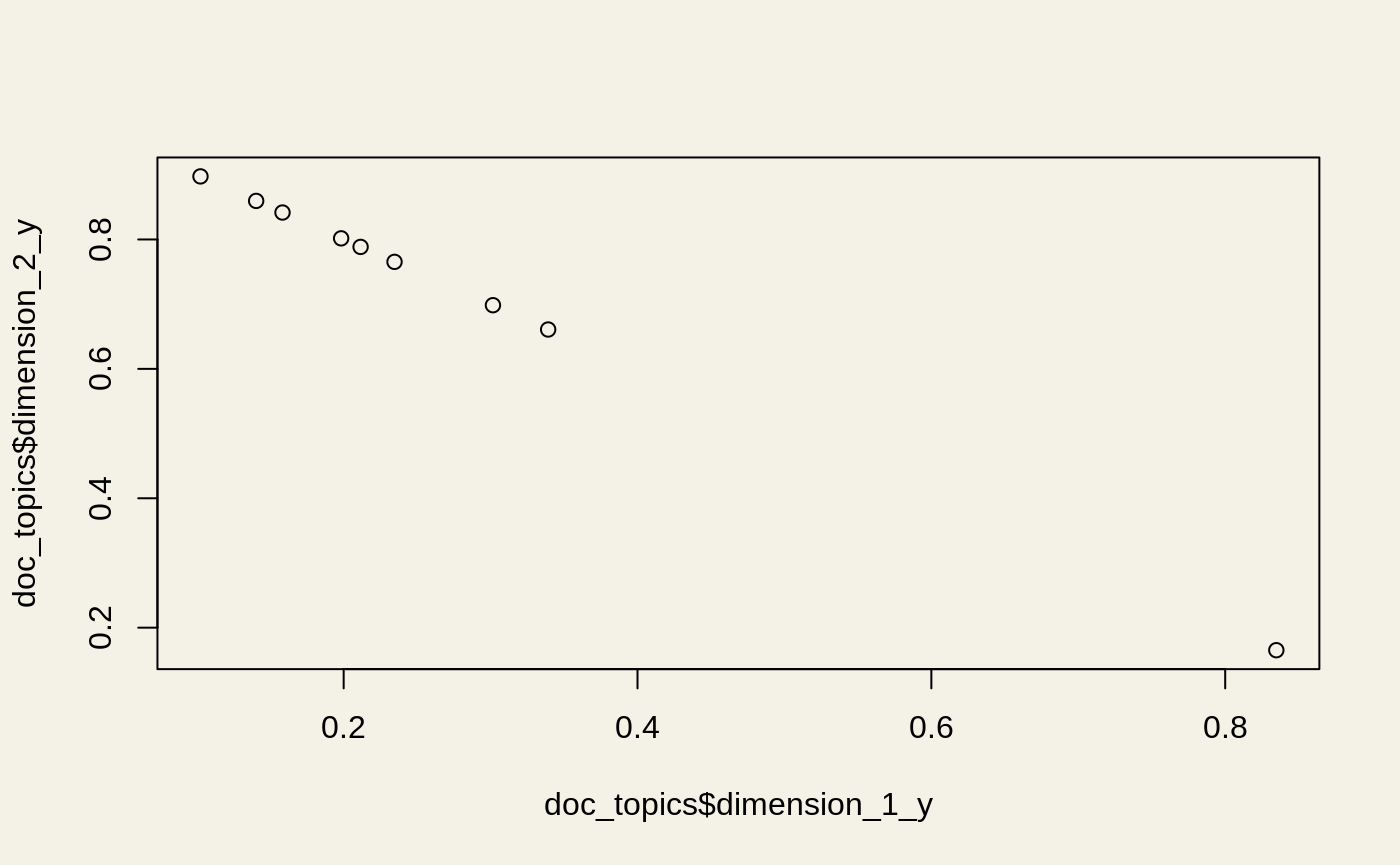
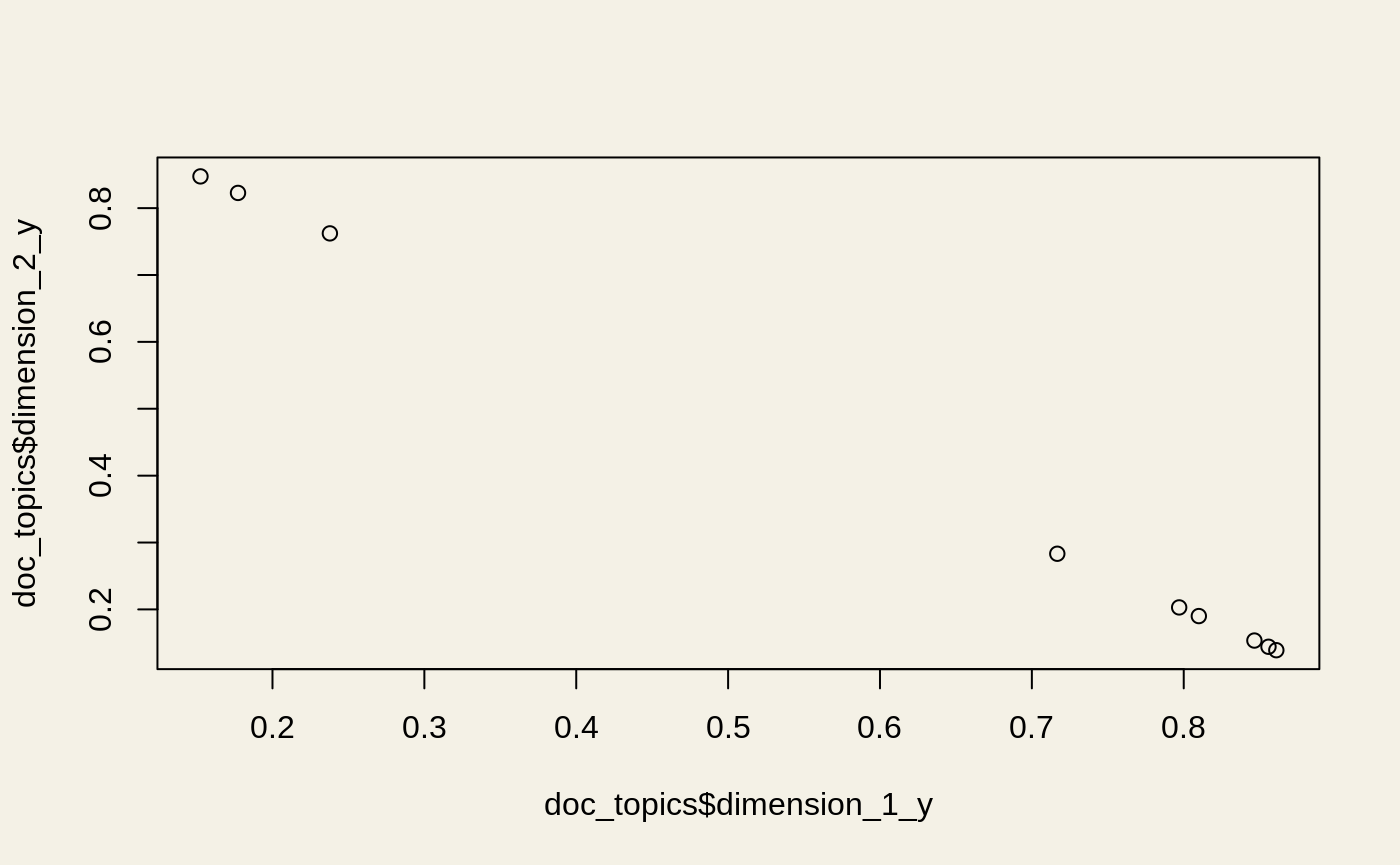
corrected documentation

diff --git a/docs/articles/coherence.html b/docs/articles/coherence.html
@@ -153,7 +153,7 @@ corpus &lt;-<span class="st"> </span><span class="kw"><a href="../reference/doc2
 <a href="#set-up-two-topic-models" class="anchor"></a>Set up two topic models</h2>
 <p>We’ll be setting up two different LDA Topic models. A good one and bad one. To build a “good” topic model, we’ll simply train it using more iterations than the bad one. Therefore the u_mass coherence should in theory be better for the good model than the bad one since it would be producing more “human-interpretable” topics.</p>
 <div class="sourceCode"><pre class="sourceCode r"><code class="sourceCode r">good_lda_model &lt;-<span class="st"> </span><span class="kw"><a href="../reference/model_lda.html">model_lda</a></span>(<span class="dt">corpus =</span> corpus, <span class="dt">id2word =</span> dictionary, <span class="dt">iterations =</span> 50L, <span class="dt">num_topics =</span> 2L)
-bad_lda_model &lt;-<span class="st"> </span><span class="kw"><a href="../reference/model_lda.html">model_lda</a></span>(<span class="dt">corpus =</span> corpus, <span class="dt">id2word =</span> dictionary, <span class="dt">iterations =</span> 1L, <span class="dt">num_topics =</span> 2L)</code></pre></div>
+bad_lda_model &lt;-<span class="st"> </span><span class="kw"><a href="../reference/model_lda.html">model_lda</a></span>(<span class="dt">corpus =</span> corpus, <span class="dt">id2word =</span> dictionary, <span class="dt">iterations =</span> 1L, <span class="dt">num_topics =</span> 10L)</code></pre></div>
 </div>
 <div id="interpreting-the-topics" class="section level2">
 <h2 class="hasAnchor">
@@ -224,9 +224,9 @@ if(typeof(LDAvis) !== "undefined"){
          });
 }
 </script><div class="sourceCode"><pre class="sourceCode r"><code class="sourceCode r">good_cm<span class="op">$</span><span class="kw">get_coherence</span>()
-<span class="co">#&gt; -14.704559170785663</span>
+<span class="co">#&gt; -14.673842117141104</span>
 bad_cm<span class="op">$</span><span class="kw">get_coherence</span>()
-<span class="co">#&gt; -14.726061108336854</span></code></pre></div>
+<span class="co">#&gt; -14.70455917078566</span></code></pre></div>
 </div>
 <div id="using-c_v-coherence" class="section level2">
 <h2 class="hasAnchor">

diff --git a/docs/index.html b/docs/index.html
@@ -176,7 +176,7 @@ topics &lt;-<span class="st"> </span>lda<span class="op">$</span><span class="kw
 <span class="co">#&gt; [1] 0</span>
 <span class="co">#&gt; </span>
 <span class="co">#&gt; [[1]][[2]]</span>
-<span class="co">#&gt; [1] "0.121*\"interface\" + 0.094*\"computer\" + 0.091*\"human\" + 0.090*\"graph\" + 0.088*\"trees\" + 0.087*\"user\" + 0.081*\"minors\" + 0.079*\"system\" + 0.074*\"survey\" + 0.072*\"eps\""</span>
+<span class="co">#&gt; [1] "0.130*\"system\" + 0.117*\"trees\" + 0.117*\"graph\" + 0.085*\"human\" + 0.083*\"minors\" + 0.079*\"user\" + 0.076*\"computer\" + 0.075*\"survey\" + 0.071*\"eps\" + 0.062*\"interface\""</span>
 <span class="co">#&gt; </span>
 <span class="co">#&gt; </span>
 <span class="co">#&gt; [[2]]</span>
@@ -184,7 +184,7 @@ topics &lt;-<span class="st"> </span>lda<span class="op">$</span><span class="kw
 <span class="co">#&gt; [1] 1</span>
 <span class="co">#&gt; </span>
 <span class="co">#&gt; [[2]][[2]]</span>
-<span class="co">#&gt; [1] "0.145*\"system\" + 0.103*\"user\" + 0.102*\"trees\" + 0.101*\"graph\" + 0.081*\"time\" + 0.078*\"response\" + 0.074*\"eps\" + 0.073*\"survey\" + 0.069*\"minors\" + 0.064*\"human\""</span></code></pre></div>
+<span class="co">#&gt; [1] "0.130*\"user\" + 0.111*\"time\" + 0.108*\"system\" + 0.107*\"response\" + 0.093*\"interface\" + 0.078*\"eps\" + 0.069*\"survey\" + 0.068*\"computer\" + 0.065*\"graph\" + 0.064*\"trees\""</span></code></pre></div>
 <p>We can then use our model to transform our corpus and then the document topic matrix.</p>
 <div class="sourceCode"><pre class="sourceCode r"><code class="sourceCode r">corpus_wrapped &lt;-<span class="st"> </span><span class="kw"><a href="reference/wrap.html">wrap</a></span>(lda, corpus)
 doc_topics &lt;-<span class="st"> </span><span class="kw"><a href="reference/get_documents_topics.html">get_docs_topics</a></span>(corpus_wrapped)
